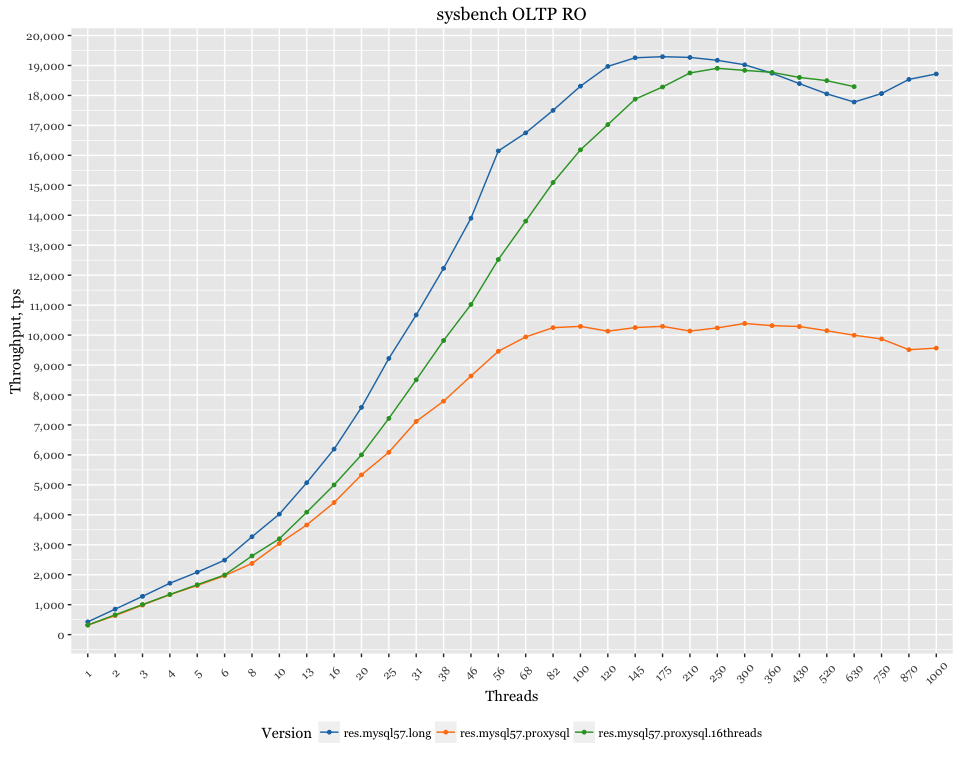
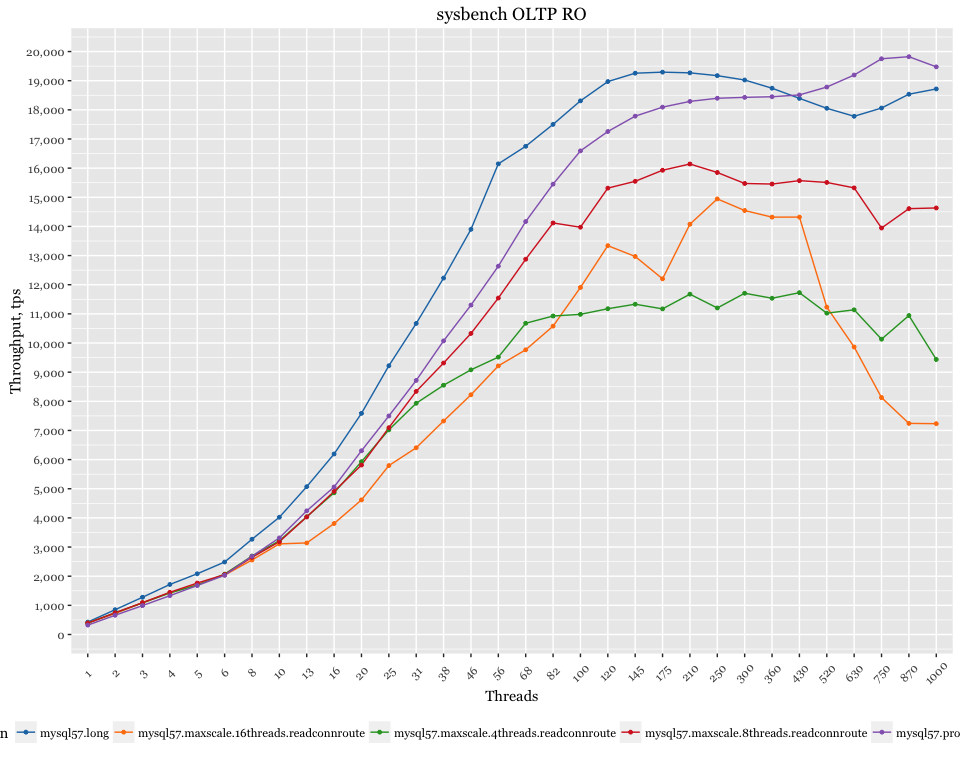
remote OLTP proxy

diff --git a/remote-OLTP-proxy/summary/proxy-OLTP.md b/remote-OLTP-proxy/summary/proxy-OLTP.md
@@ -1,5 +1,5 @@
-Percona Server 5.7 - proxy overhead
-===================================
+MySQL 5.7 - proxy overhead
+==========================
 
 Setup
 -----
@@ -14,8 +14,10 @@ Results with proxysql
 ---------------------
 
 -   Vanilla MySQL 5.7
--   ProxySQL `mysql-threads=4`
 -   ProxySQL `mysql-threads=16`
+-   MaxScale `threads=4`
+-   MaxScale `threads=8`
+-   MaxScale `threads=16`
 
 ProxySQL is running on the same host with sysbench, connected via unix-socket
 
@@ -24,5 +26,3 @@ ProxySQL is running on the same host with sysbench, connected via unix-socket
 ### Relative performance
 
 base value: MySQL 5.7
-
-![](proxy-OLTP_files/figure-markdown_github/perf-schema-relative-1.png)
